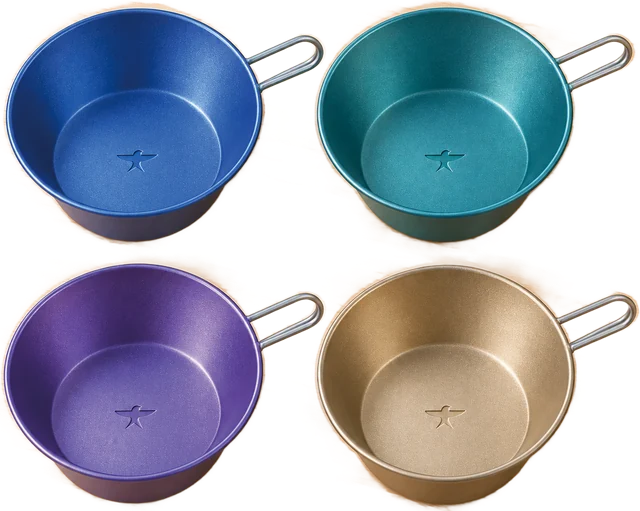
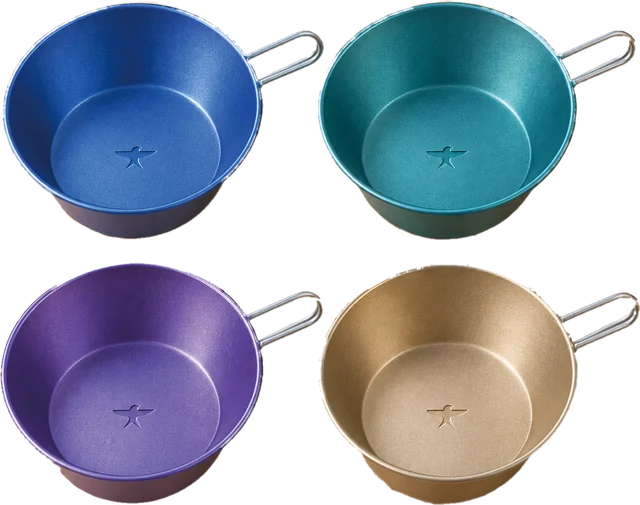
シングルマグをカンプ比に縮小・本体中心を文字に揃え、プレート/シェラカップのふちのにじみを除去

diff --git a/index.html b/index.html
@@ -1,4 +1,4 @@
-<!doctype html><html lang="ja"><head><meta charset="utf-8"><meta name="viewport" content="width=device-width,initial-scale=1"><title>燕彩 ENSAI | CoCoLo新潟店 2026.10.30 OPEN</title><link rel="icon" href="favicon.ico" sizes="any"><link rel="icon" type="image/png" sizes="32x32" href="assets/favicon-32.png"><link rel="apple-touch-icon" href="apple-touch-icon.png"><meta name="description" content="燕三条の純チタン製品を取り扱う燕彩。CoCoLo新潟2Fに2026年10月30日オープン。宴タンブラーの3D見本、商品ラインナップ、チタンメダルの色づけ体験をご紹介。"><link rel="stylesheet" href="styles.css"><link rel="stylesheet" href="mobile.css?v=20261116h"><link rel="stylesheet" href="hero-fv.css?v=20261111-hero-sync"><link rel="stylesheet" href="line-cta.css?v=20261116"><link rel="stylesheet" href="motion.css"><script>document.documentElement.classList.add("js")</script></head><body><main class="page"><section class="hero" aria-label="燕彩 CoCoLo新潟店 オープン・来店促進キャンペーン">
+<!doctype html><html lang="ja"><head><meta charset="utf-8"><meta name="viewport" content="width=device-width,initial-scale=1"><title>燕彩 ENSAI | CoCoLo新潟店 2026.10.30 OPEN</title><link rel="icon" href="favicon.ico" sizes="any"><link rel="icon" type="image/png" sizes="32x32" href="assets/favicon-32.png"><link rel="apple-touch-icon" href="apple-touch-icon.png"><meta name="description" content="燕三条の純チタン製品を取り扱う燕彩。CoCoLo新潟2Fに2026年10月30日オープン。宴タンブラーの3D見本、商品ラインナップ、チタンメダルの色づけ体験をご紹介。"><link rel="stylesheet" href="styles.css"><link rel="stylesheet" href="mobile.css?v=20261116i"><link rel="stylesheet" href="hero-fv.css?v=20261111-hero-sync"><link rel="stylesheet" href="line-cta.css?v=20261116"><link rel="stylesheet" href="motion.css"><script>document.documentElement.classList.add("js")</script></head><body><main class="page"><section class="hero" aria-label="燕彩 CoCoLo新潟店 オープン・来店促進キャンペーン">
   <img class="hero-photo" src="assets/hero-photo.webp" alt="落葉と錦鯉をあしらった純チタン製タンブラーを手に持つ様子" width="941" height="1672" fetchpriority="high">
   <h1 class="hero-catch">注ぐたび、<br>景色が生まれる。</h1>
   <div class="hero-badge" aria-label="純チタン製 350ml シングルタンブラー 約52グラム">
@@ -22,4 +22,4 @@
     </button>
     <p class="fine center">※先着順・お一人様1個、無くなり次第終了</p>
   </div>
-</section><section class="craft"><header class="section-title"><p class="eyebrow">CRAFTSMANSHIP</p><h2>まろやかな飲み口、<br>軽やかな使い心地。</h2></header><img src="assets/craft.webp" alt="職人がタンブラーの飲み口を研磨する様子" class="" loading="lazy" width="720" height="406"><p class="copy">軽くて丈夫なチタンは、加工が難しい素材。<br>燕三条の職人が回転速度や力加減を見極め、<br>繊細な調整で美しいかたちに仕上げます。</p></section><section class="design pad"><header class="section-title"><p class="eyebrow">DESIGN</p><h2>注ぐと、絵柄が動き出す。</h2></header><p class="copy">一杯を味わいながら、<br>揺らぐ水面と繊細な絵柄が織り成す景色を楽しむ。<br>毎日の一杯に、純チタンの器「宴」を。</p><img src="assets/scene.webp" alt="氷と水を注いだ、落葉と錦鯉の宴タンブラー" class="" loading="lazy" width="640" height="361"></section><section class="lineup pad" id="utage"><header class="section-title"><p class="eyebrow">FIND YOUR FAVORITE</p><h2>純チタン製 シングルタンブラー<br>「宴」ラインナップ</h2></header><p class="copy compact">眺める時間も、味わう時間も軽やかに。好きな景色で。</p><p class="spec">ensai TITANIUM　純チタン製／各種350ml</p><div class="product-grid"><article class="product"><img src="assets/koi.webp" alt="落葉と錦鯉" class="" loading="lazy" width="300" height="301"><p class="tag">舞う落葉に錦鯉が泳ぐ</p><h3>落葉と錦鯉</h3><p class="price">¥12,500<small>（税込）</small></p></article><article class="product"><img src="assets/stars.webp" alt="冬の星座" class="" loading="lazy" width="300" height="301"><p class="tag">冬の夜空に星座が輝く</p><h3>冬の星座</h3><p class="price">¥14,000<small>（税込）</small></p></article><article class="product"><img src="assets/train.webp" alt="銀河鉄道" class="" loading="lazy" width="300" height="300"><p class="tag">星の海を列車が駆ける</p><h3>銀河鉄道</h3><p class="price">¥13,000<small>（税込）</small></p></article><article class="product"><img src="assets/fish.webp" alt="日本海大漁" class="" loading="lazy" width="300" height="300"><p class="tag">日本海に魚たちが躍る</p><h3>日本海大漁</h3><p class="price">¥12,500<small>（税込）</small></p></article></div></section><section class="viewer-section" aria-labelledby="viewer-title"><p class="eyebrow">3D VIEW</p><h2 id="viewer-title">「宴」を、いろいろな角度から。</h2><p class="viewer-help">絵柄や水の状態を切り替えて、ドラッグで回せます。</p><iframe src="viewer.html" title="宴タンブラーの3D見本。4種類の絵柄、空・水・水と氷を切り替えられます" loading="lazy"></iframe></section><section class="purchase"><h2>毎日の道具を、ずっと傍に。<br>あなたの一杯に、宴を。</h2><button type="button" class="cta shop" data-destination="shop"><span class="shop-label"><svg class="cart-icon" aria-hidden="true" viewBox="0 0 24 24" width="1em" height="1em" fill="none" stroke="currentColor" stroke-width="2" stroke-linecap="round" stroke-linejoin="round"><path d="M2.5 3.5h2.6l2.4 11.2a1.6 1.6 0 0 0 1.6 1.3h8.7a1.6 1.6 0 0 0 1.6-1.2l1.6-6.8H6.1"/><circle cx="9.5" cy="20" r="1.4"/><circle cx="17.5" cy="20" r="1.4"/></svg>オンラインショップで購入する</span><span class="arrow" aria-hidden="true">→</span></button></section><section class="features"><header class="section-title"><p class="eyebrow">MADE FOR EVERYDAY</p><h2>毎日に寄り添う、3つのこだわり。</h2></header><article class="feature"><img src="assets/rim.webp" alt="口当たり良い飲み口" class="" loading="lazy" width="203" height="203"><div><span class="number">01</span><h3>口当たり良い飲み口</h3><p>手作業による丁寧な研磨。<br>複数の作業工程を経て、<br>金属を感じさせない飲み口に。</p></div></article><article class="feature"><img src="assets/light.webp" alt="軽くて丈夫な純チタン" class="" loading="lazy" width="198" height="203"><div><span class="number">02</span><h3>軽くて丈夫な純チタン</h3><p>350mlで、約52gの軽さ。<br>丈夫で長持ちし、錆びにくく、<br>匂い移りが少ない素材です。</p></div></article><article class="feature"><img src="assets/lathe.webp" alt="燕三条の加工技術" class="" loading="lazy" width="203" height="203"><div><span class="number">03</span><h3>燕三条の加工技術</h3><p>成形、研磨、発色。<br>それぞれの工程で精度を追求し、<br>美しさと使い心地を整えます。</p></div></article><p class="fine feature-note">※約52gは350mlシングルタンブラーの仕様です。<br>※本体は、純チタン製</p></section><section class="mountain pad"><h2>BLUE MOUNTAIN</h2><p class="subtitle">ブルーマウンテンシリーズ</p><p class="copy compact"><strong>憩いを彩る、山の青。<br>お気に入りの器で、いつもの晩酌をアウトドア気分に。</strong></p><p class="spec center">ensai TITANIUM　純チタン製／各種350ml</p><div class="mountain-grid"><article><img src="assets/mountain-tumbler.webp?v=2" alt="二重タンブラー" class="" loading="lazy" width="335" height="560"><h3>【二重タンブラー】</h3><p>¥16,000（税込）</p></article><article><img src="assets/mountain-mug.webp?v=2" alt="シングルマグ" class="" loading="lazy" width="586" height="560"><h3>【シングルマグ】</h3><p>¥8,000（税込）</p></article><article><img src="assets/folding.webp?v=2" alt="折りたたみ式カトラリー" class="" loading="lazy" width="625" height="560"><h3>【折りたたみ式カトラリー】</h3><p>¥3,800（税込）</p></article><article><img src="assets/cutlery.webp?v=2" alt="カトラリー" class="" loading="lazy" width="286" height="560"><h3>【カトラリー】</h3><p>¥1,980（税込）</p></article><article><img src="assets/plates.webp?v=2" alt="プレート全4色" class="" loading="lazy" width="589" height="560"><h3>【プレート全4色】</h3><p>各¥1,980（税込）</p></article><article><img src="assets/cups.webp?v=2" alt="シェラカップ全4色" class="" loading="lazy" width="640" height="511"><h3>【シェラカップ全4色】</h3><p>各¥2,400（税込）</p></article></div></section><section class="more pad"><header class="section-title"><p class="eyebrow">MORE TITANIUM</p><h2>人に寄り添う、<br>肌に優しい道具。</h2></header><p class="copy compact">店頭で、純チタンの軽さをご体感ください。</p><div class="category-grid"><figure><img src="assets/category-cups.webp" alt="タンブラー・マグ・酒器" class="" loading="lazy" width="232" height="232"><figcaption>タンブラー・マグ・酒器</figcaption></figure><figure><img src="assets/category-camp.webp" alt="キャンプギア" class="" loading="lazy" width="232" height="232"><figcaption>キャンプギア</figcaption></figure><figure><img src="assets/category-jewelry.webp" alt="純チタン製アクセサリー" class="" loading="lazy" width="232" height="232"><figcaption>純チタン製アクセサリー</figcaption></figure><figure><img src="assets/category-pens.webp" alt="筆記具" class="" loading="lazy" width="232" height="232"><figcaption>筆記具</figcaption></figure><figure><img src="assets/category-kitchen.webp" alt="キッチン用品" class="" loading="lazy" width="232" height="232"><figcaption>キッチン用品</figcaption></figure><figure><img src="assets/category-kids.webp" alt="キッズ向け食器" class="" loading="lazy" width="232" height="232"><figcaption>キッズ向け食器</figcaption></figure></div></section><section class="gacha pad"><header class="section-title"><p class="eyebrow">GACHA</p><h2>純チタンに触れよう。</h2></header><p class="copy compact">店頭では、全8色の純チタン製目印チャームの<br>ガチャを設置しています（1回400円）</p><div class="charm"><img src="assets/gacha-main.webp" alt="黄緑色の純チタン製目印チャーム" class="" loading="lazy" width="208" height="250"><div class="weight"><span>ensai<br>TITANIUM<br>超軽量</span><p>約<strong>1</strong>g</p></div></div><h3 class="gacha-heading"><span>全8色</span> 手に取ると、軽さに驚き！</h3><img src="assets/gacha-all.webp" alt="全8色のチャームと店頭のガチャ" class="" loading="lazy" width="606" height="299"><button type="button" class="line-art" data-destination="line" aria-label="LINE友だち追加で純チタン製目印チャーム 限定虹色プレゼント。店頭お渡し期間10月30日〜11月8日"><img class="line-banner" src="assets/line-gift.webp" alt="LINE友だち追加で、純チタン製目印チャーム 限定虹色プレゼント。店頭お渡し期間10/30〜11/8" width="561" height="150" loading="lazy"><span class="line-copy"><strong>LINE友だち追加で</strong><small><span class="line-benefit">純チタン製目印チャーム</span> <span class="line-benefit">限定虹色プレゼント</span><br><span class="line-date">（店頭お渡し期間：<span class="nowrap">10/30〜11/8）</span></span></small></span><img class="hero-gift" src="assets/swallow-charm-large.png" alt="" width="140" height="140" loading="lazy"><span class="arrow" aria-hidden="true">→</span></button><p class="fine center">※先着順・お一人様1個、無くなり次第終了</p></section><section class="visit pad"><header class="section-title"><p class="eyebrow">VISIT US</p><h2>店舗のご案内</h2></header><img src="assets/store.webp" alt="燕彩 CoCoLo新潟店の店舗イメージ" class="" loading="lazy" width="640" height="362"><div class="store-intro"><div><h3>燕彩 CoCoLo新潟店<br>2026.10.30 OPEN</h3><p>CoCoLo新潟2F</p><p>手に取るとわかる、純チタンの軽さ。<br>器や暮らしの道具を、店頭でみつけてください。</p></div><img src="assets/store-cups.webp" alt="店頭に並ぶ宴タンブラー" class="" loading="lazy" width="343" height="343"></div></section><section class="experience pad"><header class="section-title"><p class="eyebrow">TITANIUM COLOR EXPERIENCE</p><h2>旅の思い出を、自分だけの色に。</h2></header><p class="copy compact">純チタンメダルの色づけ体験コーナーを常設。<br>青色のカウンターにてお申し込みください。<br>【体験料：800円（税込）／体験時間：約15分】</p><div class="experience-images"><figure><img src="assets/medals.webp" alt="金色、青色、紫色に色づけした3種類のチタンメダル" class="" loading="lazy" width="376" height="180"><figcaption>陽極酸化での色づけ完成イメージ</figcaption></figure><img src="assets/color-experience.webp" alt="水槽でチタンメダルに色をつける様子" class="" loading="lazy" width="251" height="208"></div><p class="copy compact">新潟の旅の記念に。<br>好きな色で仕上げる、自分だけの一枚を。</p></section><footer><img src="assets/ensai-white.webp" alt="Ensai" class="footer-logo" loading="lazy" width="1348" height="578"><p class="footer-brand">燕 彩</p><p class="fine">【製造・販売】</p><h2>株式会社 橘製作所</h2><p>〒959-1287 新潟県燕市大関111-1</p><p>【お問合せ】　ensai@tachibana-tec.co.jp</p><p class="company-domain">tachibana-tec.co.jp</p><p class="copyright">© 2026 株式会社橘製作所</p></footer><button type="button" class="bottom-shop" data-destination="shop"><span class="shop-label"><svg class="cart-icon" aria-hidden="true" viewBox="0 0 24 24" width="1em" height="1em" fill="none" stroke="currentColor" stroke-width="2" stroke-linecap="round" stroke-linejoin="round"><path d="M2.5 3.5h2.6l2.4 11.2a1.6 1.6 0 0 0 1.6 1.3h8.7a1.6 1.6 0 0 0 1.6-1.2l1.6-6.8H6.1"/><circle cx="9.5" cy="20" r="1.4"/><circle cx="17.5" cy="20" r="1.4"/></svg>オンラインショップ</span> <span aria-hidden="true">→</span></button></main><dialog id="link-notice"><h2>リンク先は準備中です</h2><p id="notice-copy"></p><button type="button" id="close-notice">閉じる</button></dialog><script src="config.js"></script><script src="app.js"></script><script src="motion.js" defer></script></body></html>
+</section><section class="craft"><header class="section-title"><p class="eyebrow">CRAFTSMANSHIP</p><h2>まろやかな飲み口、<br>軽やかな使い心地。</h2></header><img src="assets/craft.webp" alt="職人がタンブラーの飲み口を研磨する様子" class="" loading="lazy" width="720" height="406"><p class="copy">軽くて丈夫なチタンは、加工が難しい素材。<br>燕三条の職人が回転速度や力加減を見極め、<br>繊細な調整で美しいかたちに仕上げます。</p></section><section class="design pad"><header class="section-title"><p class="eyebrow">DESIGN</p><h2>注ぐと、絵柄が動き出す。</h2></header><p class="copy">一杯を味わいながら、<br>揺らぐ水面と繊細な絵柄が織り成す景色を楽しむ。<br>毎日の一杯に、純チタンの器「宴」を。</p><img src="assets/scene.webp" alt="氷と水を注いだ、落葉と錦鯉の宴タンブラー" class="" loading="lazy" width="640" height="361"></section><section class="lineup pad" id="utage"><header class="section-title"><p class="eyebrow">FIND YOUR FAVORITE</p><h2>純チタン製 シングルタンブラー<br>「宴」ラインナップ</h2></header><p class="copy compact">眺める時間も、味わう時間も軽やかに。好きな景色で。</p><p class="spec">ensai TITANIUM　純チタン製／各種350ml</p><div class="product-grid"><article class="product"><img src="assets/koi.webp" alt="落葉と錦鯉" class="" loading="lazy" width="300" height="301"><p class="tag">舞う落葉に錦鯉が泳ぐ</p><h3>落葉と錦鯉</h3><p class="price">¥12,500<small>（税込）</small></p></article><article class="product"><img src="assets/stars.webp" alt="冬の星座" class="" loading="lazy" width="300" height="301"><p class="tag">冬の夜空に星座が輝く</p><h3>冬の星座</h3><p class="price">¥14,000<small>（税込）</small></p></article><article class="product"><img src="assets/train.webp" alt="銀河鉄道" class="" loading="lazy" width="300" height="300"><p class="tag">星の海を列車が駆ける</p><h3>銀河鉄道</h3><p class="price">¥13,000<small>（税込）</small></p></article><article class="product"><img src="assets/fish.webp" alt="日本海大漁" class="" loading="lazy" width="300" height="300"><p class="tag">日本海に魚たちが躍る</p><h3>日本海大漁</h3><p class="price">¥12,500<small>（税込）</small></p></article></div></section><section class="viewer-section" aria-labelledby="viewer-title"><p class="eyebrow">3D VIEW</p><h2 id="viewer-title">「宴」を、いろいろな角度から。</h2><p class="viewer-help">絵柄や水の状態を切り替えて、ドラッグで回せます。</p><iframe src="viewer.html" title="宴タンブラーの3D見本。4種類の絵柄、空・水・水と氷を切り替えられます" loading="lazy"></iframe></section><section class="purchase"><h2>毎日の道具を、ずっと傍に。<br>あなたの一杯に、宴を。</h2><button type="button" class="cta shop" data-destination="shop"><span class="shop-label"><svg class="cart-icon" aria-hidden="true" viewBox="0 0 24 24" width="1em" height="1em" fill="none" stroke="currentColor" stroke-width="2" stroke-linecap="round" stroke-linejoin="round"><path d="M2.5 3.5h2.6l2.4 11.2a1.6 1.6 0 0 0 1.6 1.3h8.7a1.6 1.6 0 0 0 1.6-1.2l1.6-6.8H6.1"/><circle cx="9.5" cy="20" r="1.4"/><circle cx="17.5" cy="20" r="1.4"/></svg>オンラインショップで購入する</span><span class="arrow" aria-hidden="true">→</span></button></section><section class="features"><header class="section-title"><p class="eyebrow">MADE FOR EVERYDAY</p><h2>毎日に寄り添う、3つのこだわり。</h2></header><article class="feature"><img src="assets/rim.webp" alt="口当たり良い飲み口" class="" loading="lazy" width="203" height="203"><div><span class="number">01</span><h3>口当たり良い飲み口</h3><p>手作業による丁寧な研磨。<br>複数の作業工程を経て、<br>金属を感じさせない飲み口に。</p></div></article><article class="feature"><img src="assets/light.webp" alt="軽くて丈夫な純チタン" class="" loading="lazy" width="198" height="203"><div><span class="number">02</span><h3>軽くて丈夫な純チタン</h3><p>350mlで、約52gの軽さ。<br>丈夫で長持ちし、錆びにくく、<br>匂い移りが少ない素材です。</p></div></article><article class="feature"><img src="assets/lathe.webp" alt="燕三条の加工技術" class="" loading="lazy" width="203" height="203"><div><span class="number">03</span><h3>燕三条の加工技術</h3><p>成形、研磨、発色。<br>それぞれの工程で精度を追求し、<br>美しさと使い心地を整えます。</p></div></article><p class="fine feature-note">※約52gは350mlシングルタンブラーの仕様です。<br>※本体は、純チタン製</p></section><section class="mountain pad"><h2>BLUE MOUNTAIN</h2><p class="subtitle">ブルーマウンテンシリーズ</p><p class="copy compact"><strong>憩いを彩る、山の青。<br>お気に入りの器で、いつもの晩酌をアウトドア気分に。</strong></p><p class="spec center">ensai TITANIUM　純チタン製／各種350ml</p><div class="mountain-grid"><article><img src="assets/mountain-tumbler.webp?v=2" alt="二重タンブラー" class="" loading="lazy" width="335" height="560"><h3>【二重タンブラー】</h3><p>¥16,000（税込）</p></article><article><img src="assets/mountain-mug.webp?v=2" alt="シングルマグ" class="" loading="lazy" width="586" height="560"><h3>【シングルマグ】</h3><p>¥8,000（税込）</p></article><article><img src="assets/folding.webp?v=2" alt="折りたたみ式カトラリー" class="" loading="lazy" width="625" height="560"><h3>【折りたたみ式カトラリー】</h3><p>¥3,800（税込）</p></article><article><img src="assets/cutlery.webp?v=2" alt="カトラリー" class="" loading="lazy" width="286" height="560"><h3>【カトラリー】</h3><p>¥1,980（税込）</p></article><article><img src="assets/plates.webp?v=4" alt="プレート全4色" class="" loading="lazy" width="597" height="560"><h3>【プレート全4色】</h3><p>各¥1,980（税込）</p></article><article><img src="assets/cups.webp?v=4" alt="シェラカップ全4色" class="" loading="lazy" width="640" height="505"><h3>【シェラカップ全4色】</h3><p>各¥2,400（税込）</p></article></div></section><section class="more pad"><header class="section-title"><p class="eyebrow">MORE TITANIUM</p><h2>人に寄り添う、<br>肌に優しい道具。</h2></header><p class="copy compact">店頭で、純チタンの軽さをご体感ください。</p><div class="category-grid"><figure><img src="assets/category-cups.webp" alt="タンブラー・マグ・酒器" class="" loading="lazy" width="232" height="232"><figcaption>タンブラー・マグ・酒器</figcaption></figure><figure><img src="assets/category-camp.webp" alt="キャンプギア" class="" loading="lazy" width="232" height="232"><figcaption>キャンプギア</figcaption></figure><figure><img src="assets/category-jewelry.webp" alt="純チタン製アクセサリー" class="" loading="lazy" width="232" height="232"><figcaption>純チタン製アクセサリー</figcaption></figure><figure><img src="assets/category-pens.webp" alt="筆記具" class="" loading="lazy" width="232" height="232"><figcaption>筆記具</figcaption></figure><figure><img src="assets/category-kitchen.webp" alt="キッチン用品" class="" loading="lazy" width="232" height="232"><figcaption>キッチン用品</figcaption></figure><figure><img src="assets/category-kids.webp" alt="キッズ向け食器" class="" loading="lazy" width="232" height="232"><figcaption>キッズ向け食器</figcaption></figure></div></section><section class="gacha pad"><header class="section-title"><p class="eyebrow">GACHA</p><h2>純チタンに触れよう。</h2></header><p class="copy compact">店頭では、全8色の純チタン製目印チャームの<br>ガチャを設置しています（1回400円）</p><div class="charm"><img src="assets/gacha-main.webp" alt="黄緑色の純チタン製目印チャーム" class="" loading="lazy" width="208" height="250"><div class="weight"><span>ensai<br>TITANIUM<br>超軽量</span><p>約<strong>1</strong>g</p></div></div><h3 class="gacha-heading"><span>全8色</span> 手に取ると、軽さに驚き！</h3><img src="assets/gacha-all.webp" alt="全8色のチャームと店頭のガチャ" class="" loading="lazy" width="606" height="299"><button type="button" class="line-art" data-destination="line" aria-label="LINE友だち追加で純チタン製目印チャーム 限定虹色プレゼント。店頭お渡し期間10月30日〜11月8日"><img class="line-banner" src="assets/line-gift.webp" alt="LINE友だち追加で、純チタン製目印チャーム 限定虹色プレゼント。店頭お渡し期間10/30〜11/8" width="561" height="150" loading="lazy"><span class="line-copy"><strong>LINE友だち追加で</strong><small><span class="line-benefit">純チタン製目印チャーム</span> <span class="line-benefit">限定虹色プレゼント</span><br><span class="line-date">（店頭お渡し期間：<span class="nowrap">10/30〜11/8）</span></span></small></span><img class="hero-gift" src="assets/swallow-charm-large.png" alt="" width="140" height="140" loading="lazy"><span class="arrow" aria-hidden="true">→</span></button><p class="fine center">※先着順・お一人様1個、無くなり次第終了</p></section><section class="visit pad"><header class="section-title"><p class="eyebrow">VISIT US</p><h2>店舗のご案内</h2></header><img src="assets/store.webp" alt="燕彩 CoCoLo新潟店の店舗イメージ" class="" loading="lazy" width="640" height="362"><div class="store-intro"><div><h3>燕彩 CoCoLo新潟店<br>2026.10.30 OPEN</h3><p>CoCoLo新潟2F</p><p>手に取るとわかる、純チタンの軽さ。<br>器や暮らしの道具を、店頭でみつけてください。</p></div><img src="assets/store-cups.webp" alt="店頭に並ぶ宴タンブラー" class="" loading="lazy" width="343" height="343"></div></section><section class="experience pad"><header class="section-title"><p class="eyebrow">TITANIUM COLOR EXPERIENCE</p><h2>旅の思い出を、自分だけの色に。</h2></header><p class="copy compact">純チタンメダルの色づけ体験コーナーを常設。<br>青色のカウンターにてお申し込みください。<br>【体験料：800円（税込）／体験時間：約15分】</p><div class="experience-images"><figure><img src="assets/medals.webp" alt="金色、青色、紫色に色づけした3種類のチタンメダル" class="" loading="lazy" width="376" height="180"><figcaption>陽極酸化での色づけ完成イメージ</figcaption></figure><img src="assets/color-experience.webp" alt="水槽でチタンメダルに色をつける様子" class="" loading="lazy" width="251" height="208"></div><p class="copy compact">新潟の旅の記念に。<br>好きな色で仕上げる、自分だけの一枚を。</p></section><footer><img src="assets/ensai-white.webp" alt="Ensai" class="footer-logo" loading="lazy" width="1348" height="578"><p class="footer-brand">燕 彩</p><p class="fine">【製造・販売】</p><h2>株式会社 橘製作所</h2><p>〒959-1287 新潟県燕市大関111-1</p><p>【お問合せ】　ensai@tachibana-tec.co.jp</p><p class="company-domain">tachibana-tec.co.jp</p><p class="copyright">© 2026 株式会社橘製作所</p></footer><button type="button" class="bottom-shop" data-destination="shop"><span class="shop-label"><svg class="cart-icon" aria-hidden="true" viewBox="0 0 24 24" width="1em" height="1em" fill="none" stroke="currentColor" stroke-width="2" stroke-linecap="round" stroke-linejoin="round"><path d="M2.5 3.5h2.6l2.4 11.2a1.6 1.6 0 0 0 1.6 1.3h8.7a1.6 1.6 0 0 0 1.6-1.2l1.6-6.8H6.1"/><circle cx="9.5" cy="20" r="1.4"/><circle cx="17.5" cy="20" r="1.4"/></svg>オンラインショップ</span> <span aria-hidden="true">→</span></button></main><dialog id="link-notice"><h2>リンク先は準備中です</h2><p id="notice-copy"></p><button type="button" id="close-notice">閉じる</button></dialog><script src="config.js"></script><script src="app.js"></script><script src="motion.js" defer></script></body></html>

diff --git a/mobile.css b/mobile.css
@@ -286,3 +286,15 @@ dialog button { min-height: 44px; font-size: 16px; }
 .mountain {
   background: #659cb2 url("assets/mountain-bg.svg?v=1") center top / cover no-repeat;
 }
+
+/* ブルーマウンテン：シングルマグはカンプ比（タンブラー高さの約81%）で下揃え。
+   取っ手を除いた本体の中心が文字の中心に来るよう右へずらす */
+.mountain-grid { --mg-h: 14em; }
+.mountain-grid img { height: var(--mg-h); }
+.mountain-grid article:nth-child(2) img {
+  padding-top: calc(var(--mg-h) * .19);
+  object-position: calc(50% + var(--mg-h) * .11) bottom;
+}
+@media (max-width: 600px) {
+  .mountain-grid { --mg-h: clamp(140px, 38vw, 224px); }
+}
